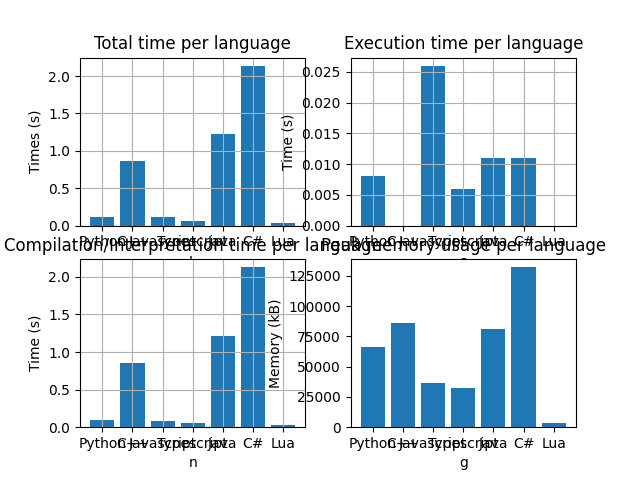
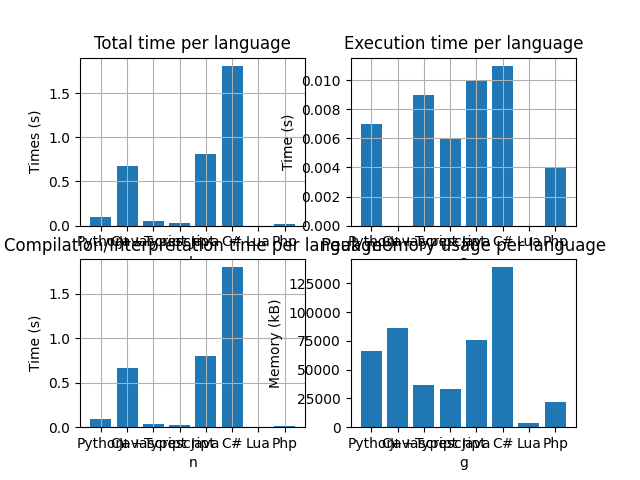
Add PHP

diff --git a/src/php/fast/main.php b/src/php/fast/main.php
@@ -1,0 +1,31 @@
+<?php
+$start = microtime(true);
+$file = fopen("../../rounds.txt", "r");
+$rounds = fread($file, filesize("../../rounds.txt"));
+fclose($file);
+
+
+$total = array_fill(0, $rounds + 1, true);
+
+for ($i = 2; $i <= sqrt($rounds); $i++) {
+    if ($total[$i]) {
+        for ($j = $i * $i; $j <= $rounds; $j += $i) {
+            $total[$j] = false;
+        }
+    }
+}
+
+
+$primes = 0;
+for ($i = 2; $i <= $rounds; $i++) {
+    if ($total[$i]) {
+        $primes++;
+    }
+}
+$composites = $rounds - $primes;
+
+
+
+$end = microtime(true) - $start;
+echo phpversion() . " " . $end;
+?>

diff --git a/src/php/slow/main.php b/src/php/slow/main.php
@@ -1,0 +1,29 @@
+<?php
+$start = microtime(true);
+$file = fopen("../../rounds.txt", "r");
+$rounds = fread($file, filesize("../../rounds.txt"));
+fclose($file);
+
+
+$primes = 0;
+$composites = 0;
+
+for ($num = 0; $num <= $rounds; $num++) {
+    $ctr = 0;
+
+    for ($i = 2; $i <= $num / 2; $i++) {
+        if ($num % $i == 0) {
+            $ctr++;
+            $composites++;
+            break;
+        }
+    }
+
+    if ($ctr == 0 && $num != 1) {
+        $primes++;
+    }
+}
+
+$end = microtime(true) - $start;
+echo phpversion() . " " . $end;
+?>

diff --git a/comparison.py b/comparison.py
@@ -28,6 +28,7 @@ SLOW_LANGUAGES = {
     "Java": "javac main.java && java main",
     "C#": "dotnet run",
     "Lua": "lua main.lua",
+    "PHP": "php main.php",
 }
 
 
@@ -39,6 +40,7 @@ FAST_LANGUAGES = {
     "Java": "javac main.java && java main",
     "C#": "dotnet run",
     "Lua": "lua main.lua",
+    "PHP": "php main.php",
 }
 
 

diff --git a/README.md b/README.md
@@ -101,6 +101,7 @@ You are also more than welcome to contribute and help me.
 - [Java](http://www.oracle.com/technetwork/java/index.html) - compiled, VM
 - [C#](https://docs.microsoft.com/en-us/dotnet/csharp/) - compiled, VM
 - [Lua](https://www.lua.org) - interpreted, JIT
+- [PHP](https://www.php.net) - interpreted, JIT
 <!---
 
 - [Javascript](https://www.ecma-international.org/publications/standards/Ecma-402.htm) using [Node.js](https://nodejs.org/) - interpreted, JIT
@@ -173,6 +174,7 @@ Because I think this is a more realistic scenario to compare speeds.
 - [X] Add an option to run natively 
 - [X] Add C#
 - [X] Add Lua
+- [X] Add Php
 - [ ] Add other methods of comparing E.g: [Leibniz formula for π](https://en.wikipedia.org/wiki/Leibniz_formula_for_%CF%80) to compare the floating point operations
 - [ ] Add full Docker Support
 - [ ] Add Terminal graphs
@@ -187,7 +189,6 @@ Because I think this is a more realistic scenario to compare speeds.
 - [ ] Add Powershell
 - [ ] Add Nix
 - [ ] Add V
-- [ ] Add Php
 - [ ] Add R
 - [ ] Add R plots instead of MatPlotLib
 - [ ] Add Julia
